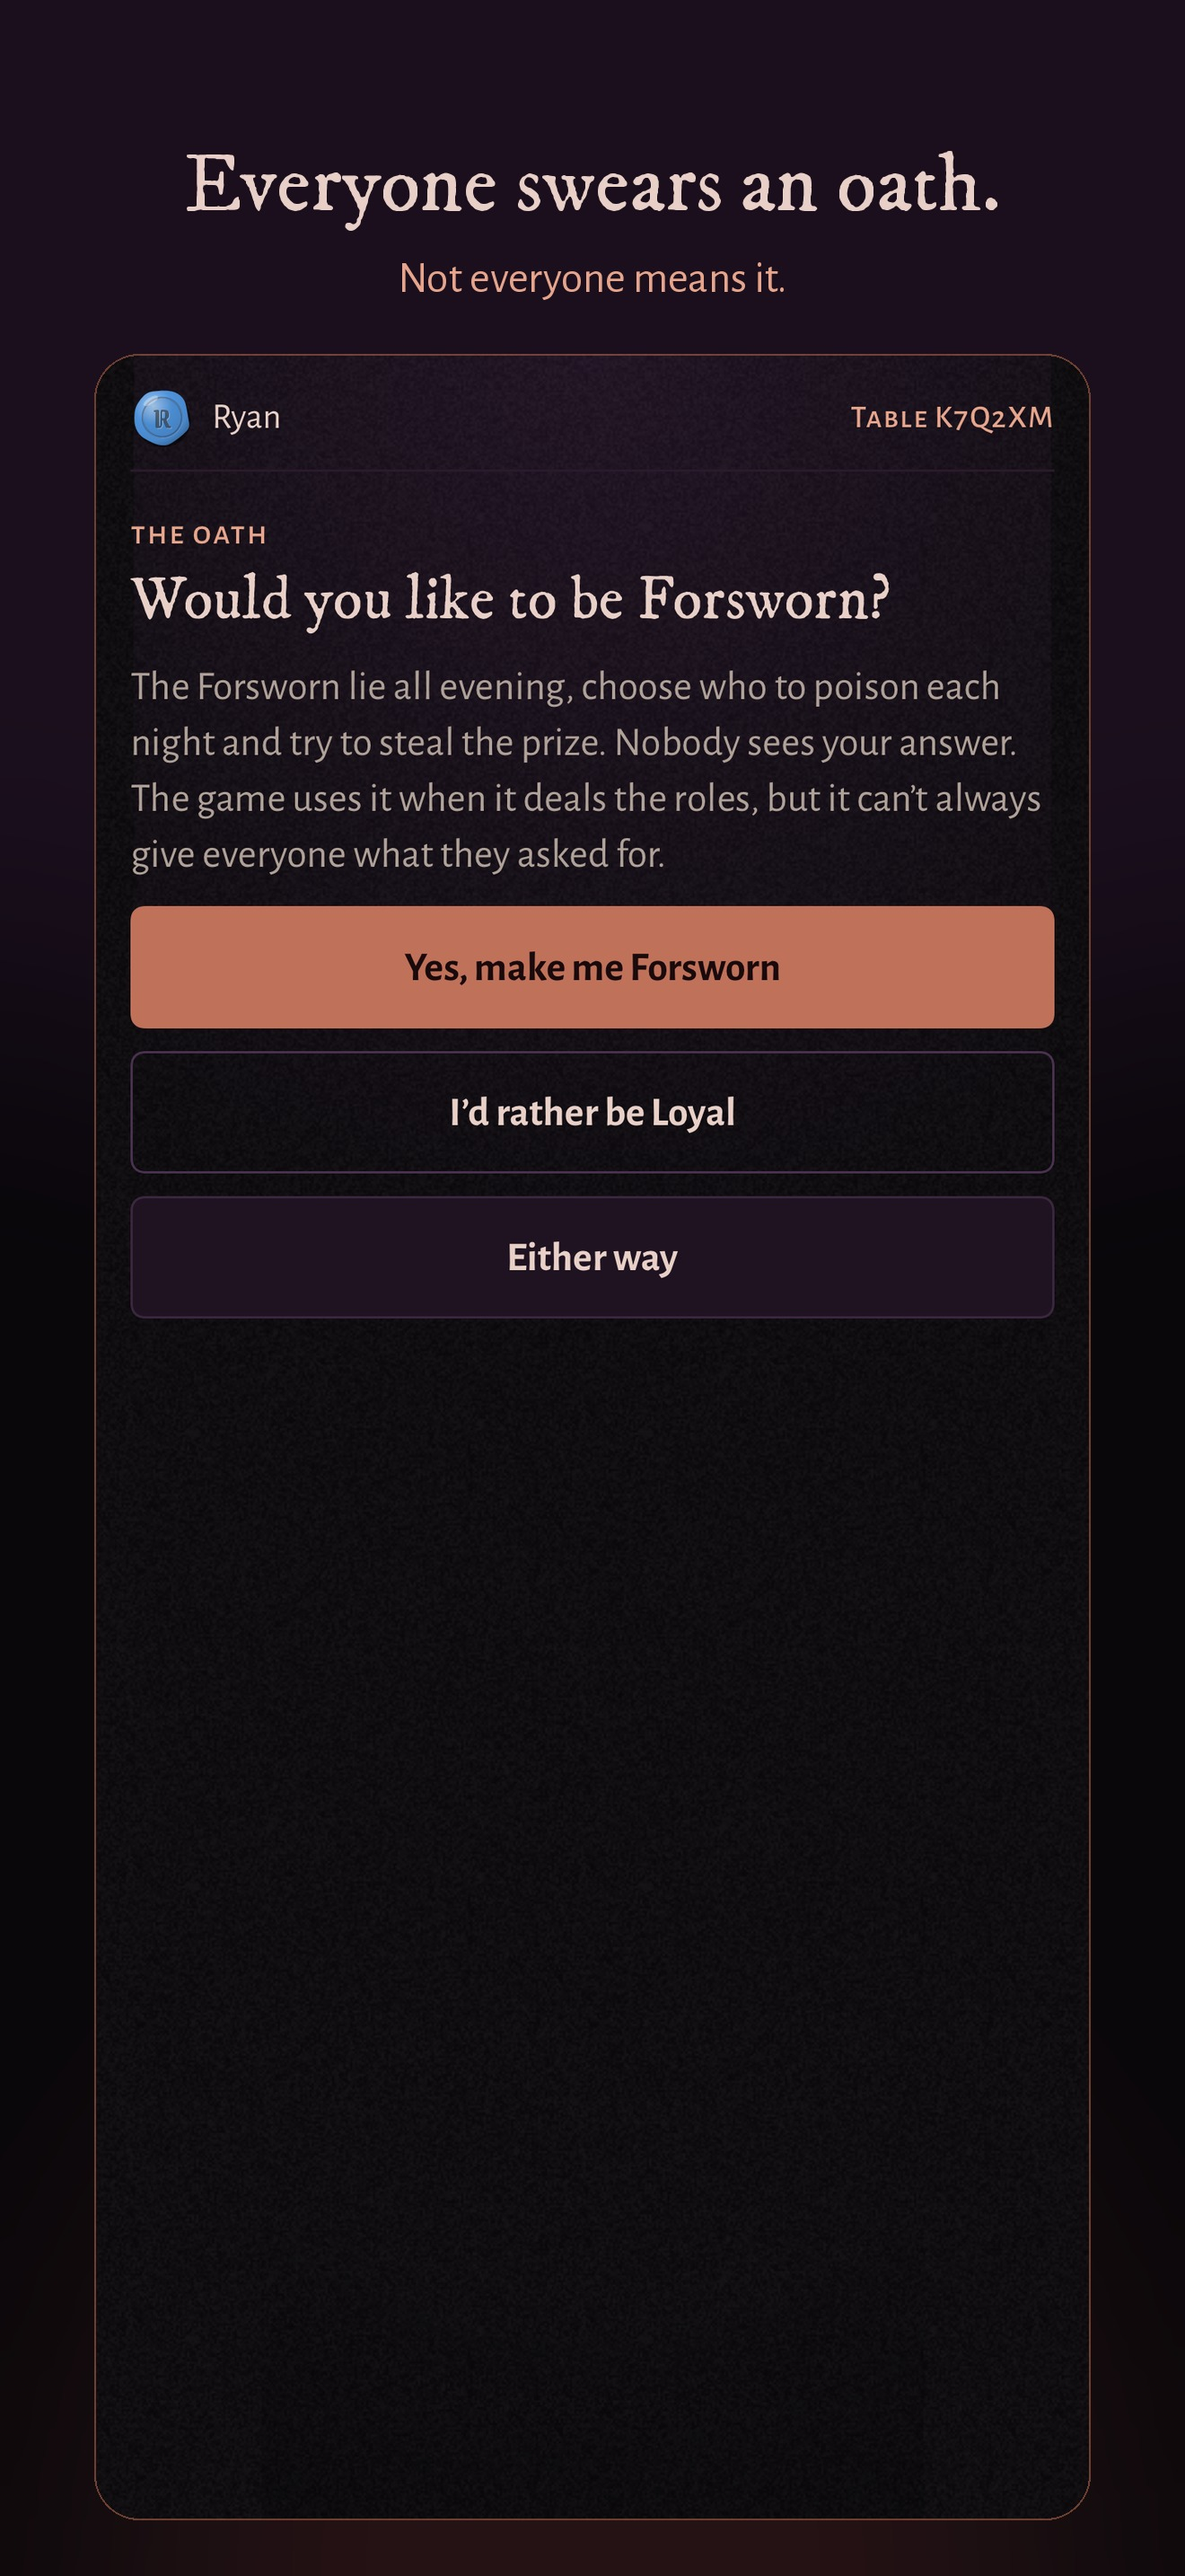
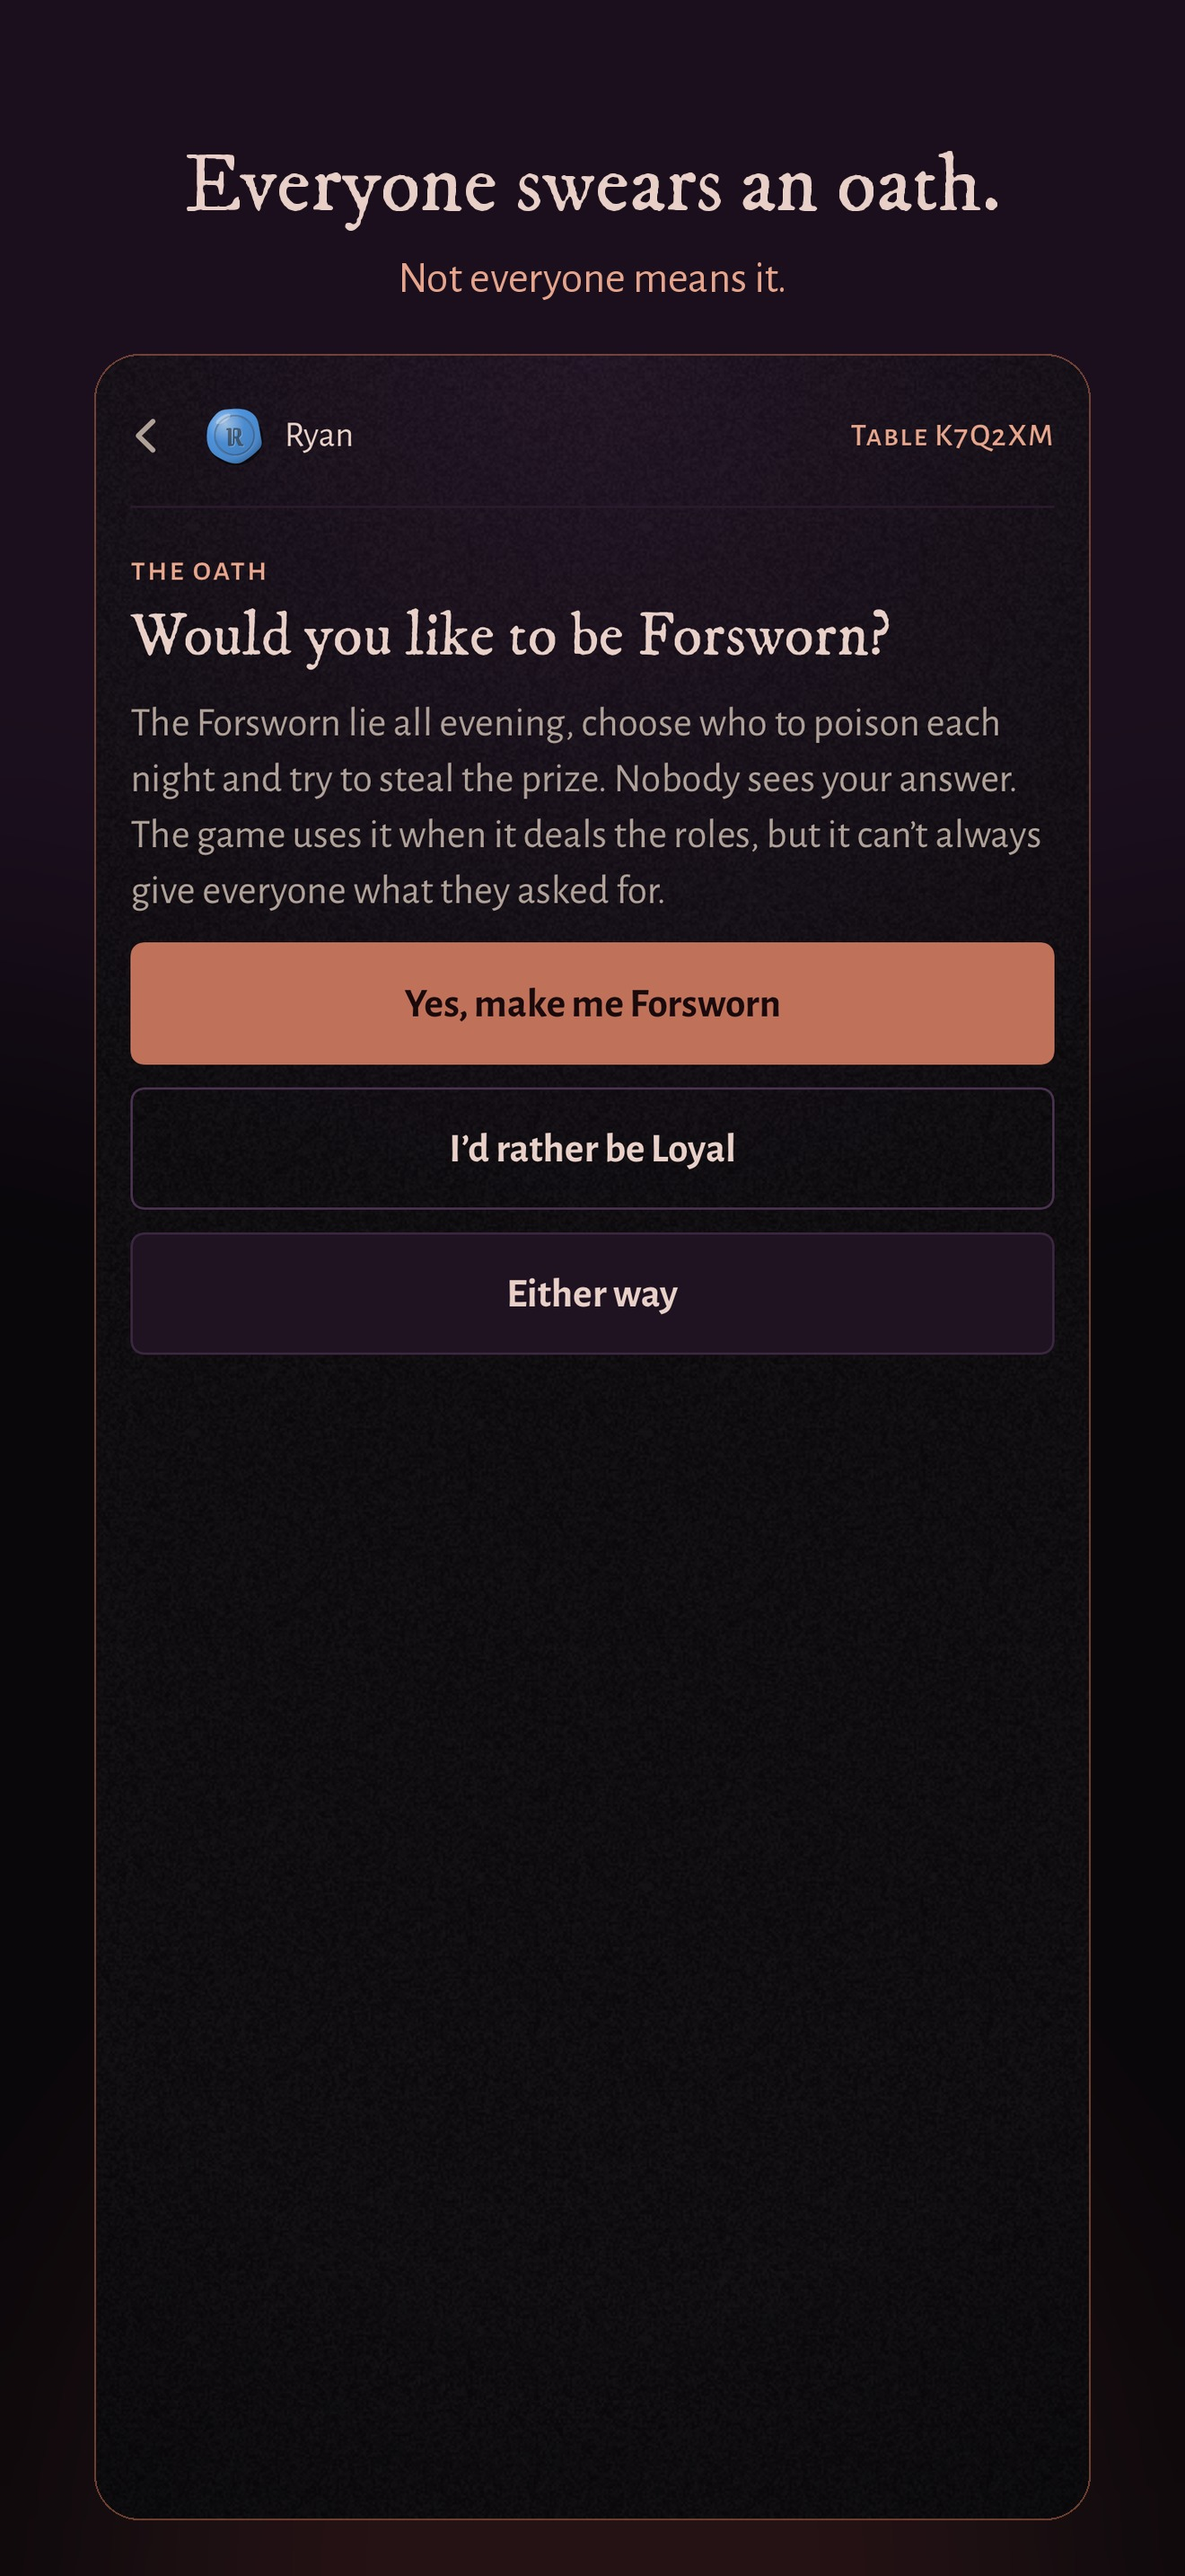
Store: the listing's words match the game, and the screenshots match today's app [skip ci]
- The description says where ads show (as each Reckoning opens, and at the
  end), that wrong answers cost the Purse in the quiz-style Trials, the iPad or
  spare phone as the TV, and no longer names the twists (the glossary keeps
  them for the game itself).
- The review notes follow v2's screens (the name on Host a game; Set up a TV).
- Two captions were wrong: two leave each round above sixteen, and the final's
  exiles aren't unmasked.
- The screenshots, composed again from the latest renders: the top bar's back
  arrow and the background's glow as the app now draws them.

Claude-Session: https://claude.ai/code/session_0145tpkbqjBvpbDCNomApotW

Changed region(s): [[0.0932, 0.1241, 0.9008, 0.5275], [0.7144, 0.1552, 0.9008, 0.1862]]

diff --git a/store/compose.py b/store/compose.py
@@ -19,7 +19,7 @@ PHONE = [
     ("oath", "Everyone swears an oath.", "Not everyone means it."),
     ("roles-forsworn", "A few of you are Forsworn.", "Your phone tells you, and no one else."),
     ("likely-open", "Party games for the Purse.", "Quizzes, guesses, words and more."),
-    ("vote-mine", "Argue. Accuse. Vote.", "Each round, one of you leaves the Table."),
+    ("vote-mine", "Argue. Accuse. Vote.", "Each round, the table votes someone out."),
     ("night-forsworn-picked", "By night, the Forsworn choose.", "Everyone taps too, so no one can tell who."),
     ("end-winner", "Find every Forsworn.", "Or watch them take the Purse."),
 ]
@@ -27,7 +27,7 @@ TV = [
     ("lobby-host", "Your TV becomes the show.", "Friends join in the app, or scan the code."),
     ("quiz-open", "Everyone answers on their own phone.", "The TV keeps the table together."),
     ("talk", "The Reckoning.", "A few minutes of debate, then a secret vote."),
-    ("reveal-exiled", "Every exile is unmasked.", "Loyal or Forsworn, the table finds out."),
+    ("reveal-exiled", "The exile is unmasked.", "Loyal or Forsworn, the table finds out."),
     ("dawn-revealed", "Dawn brings the night’s victim.", "Last words, then back to the table."),
     ("end-host", "Who takes the Purse?", "The Loyal, or the ones who lied all night."),
 ]

diff --git a/store/listing.md b/store/listing.md
@@ -23,7 +23,7 @@ follow the server repo's `media/copy/glossary.md` (no TV-programme words, the Co
 
 Everyone swore an oath tonight. Not everyone meant it. Gather your friends, play on your own phones, and find the Forsworn before they take the Purse.
 
-**Description** (2308/4000)
+**Description** (2344/4000)
 
 ```
 Everyone swore an oath tonight. Not everyone meant it.
@@ -34,22 +34,22 @@ EVERY PHONE KNOWS ITS PART
 Your phone tells you what to do, and when. There's nothing to learn before the night and no account to make. The host starts a Table; everyone else joins in the app with its code, or scans the code on the TV.
 
 PARTY GAMES BETWEEN THE ROUNDS
-Quizzes, guessing games, word games, charades and more, played on the phones, for a shared Purse and for Sanctuary, which keeps its holder safe for a night. Every wrong answer from a Forsworn costs the Purse: the table hears how many there were, never whose.
+Quizzes, guessing games, word games, charades and more, played on the phones, for a shared Purse and for Sanctuary, which keeps its holder safe for a night. In the quiz-style Trials, every wrong answer from a Forsworn costs the Purse: the table hears how many there were, never whose.
 
 NIGHT, DAWN AND THE RECKONING
 Heads down while the Forsworn choose. At dawn the victim learns first, in secret, then gets their last words. Then the Reckoning: open debate on a timer and a secret vote. The exile's role is shown as they leave.
 
 A SHOW ON YOUR TV
-AirPlay the host's phone to a TV, or use an iPad, and the game becomes a show: the Table, the votes, the reveals and the music. The TV shows the game, never anyone's role.
+Make an iPad or a spare phone the TV, or AirPlay the host's phone to one, and the game becomes a show: the Table, the votes, the reveals and the music. The TV shows the game, never anyone's role.
 
 TWISTS
-The Casting Vote, the Temptation, the Crown, and a last betrayal in the final, if the Forsworn get that far.
+A few twists, which the game explains when they happen.
 
 PRACTISE ON YOUR OWN
 Practice against bots: they fill the Table and play every part, so you can learn the game before the party.
 
 FREE, OR AD-FREE
-Free games show an ad between rounds, never while you play, and use eight of the fifteen Trials. A Night Pass makes tonight ad-free for everyone at your Table, with every Trial and the full question banks. The Host Pass does that every time you host.
+Free games show a short ad as each Reckoning opens and at the end, never during a Trial or a vote, and use eight of the fifteen Trials. A Night Pass makes tonight ad-free for everyone at your Table, with every Trial and the full question banks. The Host Pass does that every time you host.
 
 You'll need 8 to 24 players in one room, and a phone each. The game is made for adults.
 
@@ -77,9 +77,9 @@ Sign-in required: **no**. Notes:
 ```
 The Betrayal is a party game for 8 to 24 people in one room, each playing on their own phone. To play on your own, tap Practice against bots on the start screen, type a name and start: bots fill the Table and play every part. (Before a phone's first game, five short screens explain the game; Skip passes them.) The first time you enter a free or practice game, Google's consent form (where the law requires it) and then Apple's tracking question appear; the game is the same whatever you answer.
 
-In-app purchases: tap Host a game, then Start a free game, type a name and tap Open the Table; in the lobby, under Trials, tap Make it ad-free with a pass to buy a Night Pass (consumable) or the Host Pass (yearly subscription). At once the list of locked Trials goes and the game is ad-free for everyone at the Table (a real game needs 8 players' phones to start). The same passes are under Your passes on the start screen, with Restore purchases and Manage subscription. A practice game can't use a pass: it's for trying the game alone.
+In-app purchases: tap Host a game, type a name and tap Start a free game; in the lobby, under Trials, tap Make it ad-free with a pass to buy a Night Pass (consumable) or the Host Pass (yearly subscription). At once the list of locked Trials goes and the game is ad-free for everyone at the Table (a real game needs 8 players' phones to start). The same passes are under Your passes on the start screen, with Restore purchases and Manage subscription. A practice game can't use a pass: it's for trying the game alone.
 
-Guests join with the six-character Table code shown on the host's phone, or by scanning the QR code on the TV screen. An iPad can be the TV: tap Join a game, type the code and choose Use this screen as the TV.
+Guests join with the six-character Table code shown on the host's phone, or by scanning its QR code (on the host's phone, or the TV). An iPad can be the TV: tap Set up a TV on the start screen, type the code and tap Use this screen as the TV.
 
 No account or sign-in is needed.
 ```
@@ -123,7 +123,7 @@ A pass for one night of ad-free games with every Trial. Its 24 hours start when 
 Review notes, Host Pass:
 
 ```
-A yearly subscription for hosts. While it's active, every game the subscriber hosts is free of ads for everyone at the Table, and includes every Trial and the full question banks. Players who join never pay. To see it: buy it under Your passes on the start screen, then tap Host a game, Start a game and choose Use my Host Pass, or use it from a free game's lobby with Make it ad-free with a pass. Restore purchases brings it to another device, and Manage subscription opens Apple's subscription settings.
+A yearly subscription for hosts. While it's active, every game the subscriber hosts is free of ads for everyone at the Table, and includes every Trial and the full question banks. Players who join never pay. To see it: buy it under Your passes on the start screen, then tap Host a game, type a name, tap Start a game and choose Use my Host Pass, or use it from a free game's lobby with Make it ad-free with a pass. Restore purchases brings it to another device, and Manage subscription opens Apple's subscription settings.
 ```
 
 Each needs a review screenshot: `review/passes-6.9.png` (the **Your passes** screen, 1320 × 2868, an accepted iPhone size).
